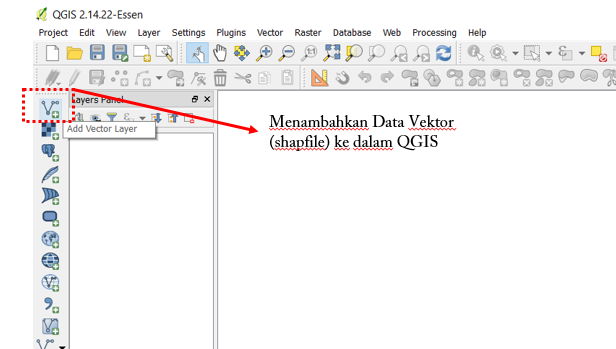
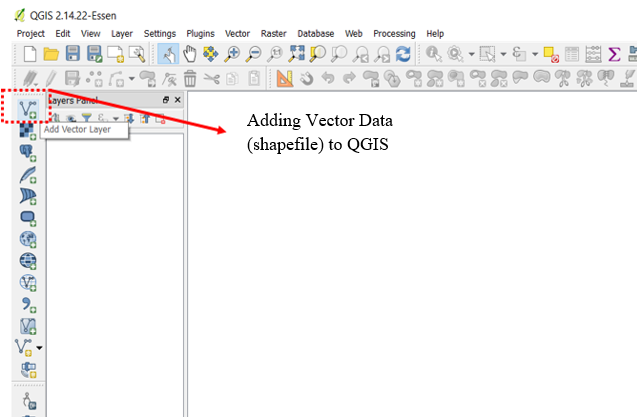
Update module 10 Converting Shapefile
change images

Changed region(s): [[0.0, 0.0, 1.0, 1.0]]

diff --git a/content/en/pages/06-OSM-Field-Survey-Manager-Guidelines/10-Konversi-Data-Shapefile-ke-GeoJSON/10_Konversi_Data_Shapefile_ke_GeoJSON.md b/content/en/pages/06-OSM-Field-Survey-Manager-Guidelines/10-Konversi-Data-Shapefile-ke-GeoJSON/10_Konversi_Data_Shapefile_ke_GeoJSON.md
@@ -40,7 +40,7 @@ By using QGIS, you can convert shapefile data from both OpenStreetMap (OSM) data
 <p align="center"><i>Option for shapefile data conversion</i></p>
 
 *   You should see a window and make sure you set it as the picture below:
-*   
+
 ![The conversion settings from shapefile to GeoJSON](/en/images/06-OSM-Field-Survey-Manager-Guidelines/10-Konversi-Data-Shapefile-ke-GeoJSON/1004_pengaturan_geojson_di_qgis.png()
 <p align="center"><i>The conversion settings from shapefile to GeoJSON</i></p>
 
@@ -118,4 +118,5 @@ If you want to change your own shapefile data instead of OpenStreetMap data then
 <p align="center"><i>Window to download GeoJSON conversion result</i></p>
 
 **SUMMARY**
+
 You have learned about spatial data with GeoJSON format and also know how to convert shapefile data to GeoJSON by using several tools such as QGIS, Overpass Turbo, and GeoData Converter. You can use all of these tools according to your needs and the availability of shapefile data that you have. Your GeoJSON data can be used as visualization on WebGIS or sites that can display spatial data such as Mapbox, Leaflets, HOT Export and Tasking Manager.
